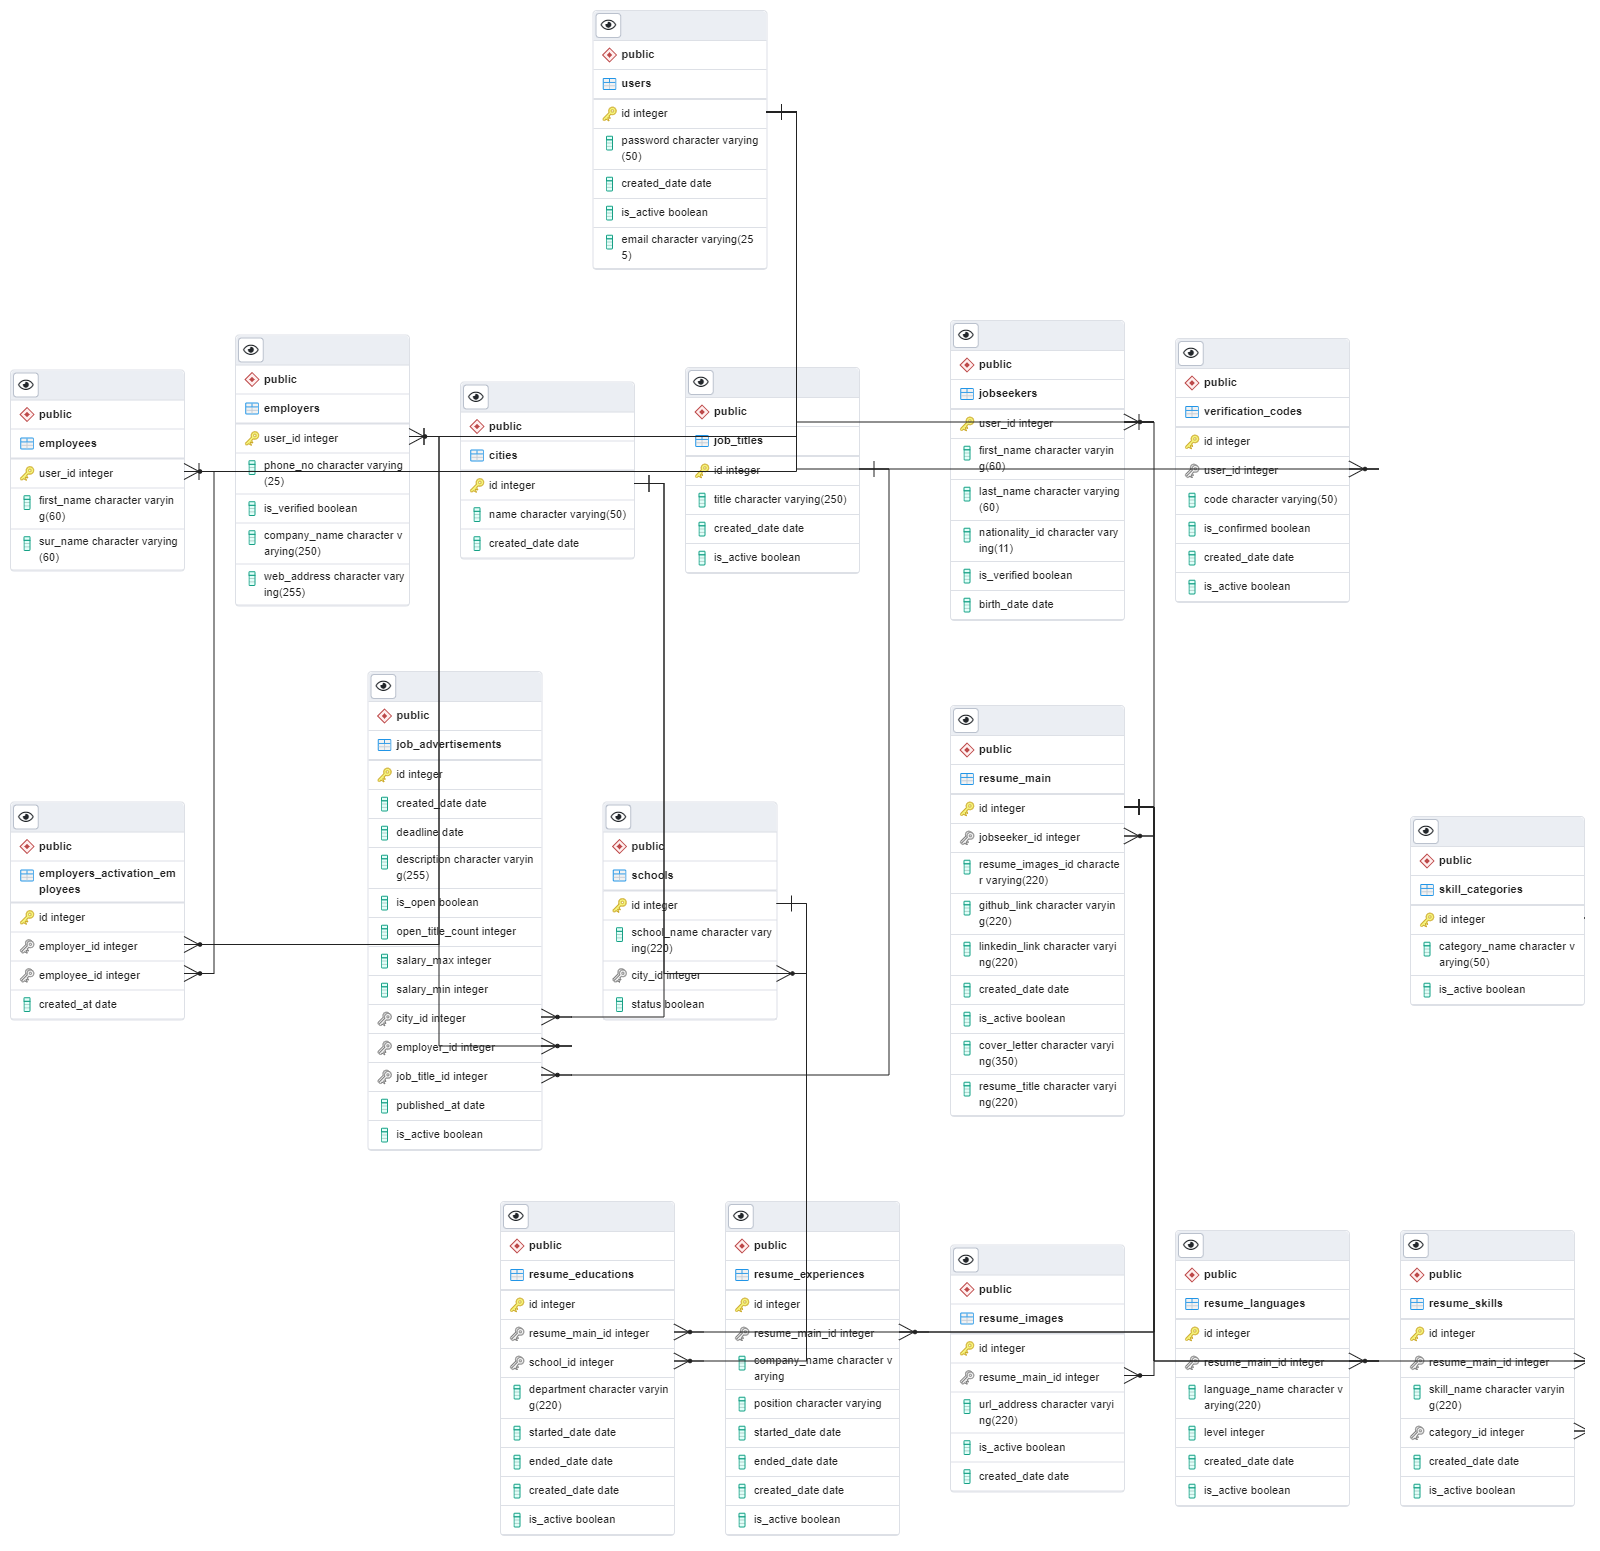
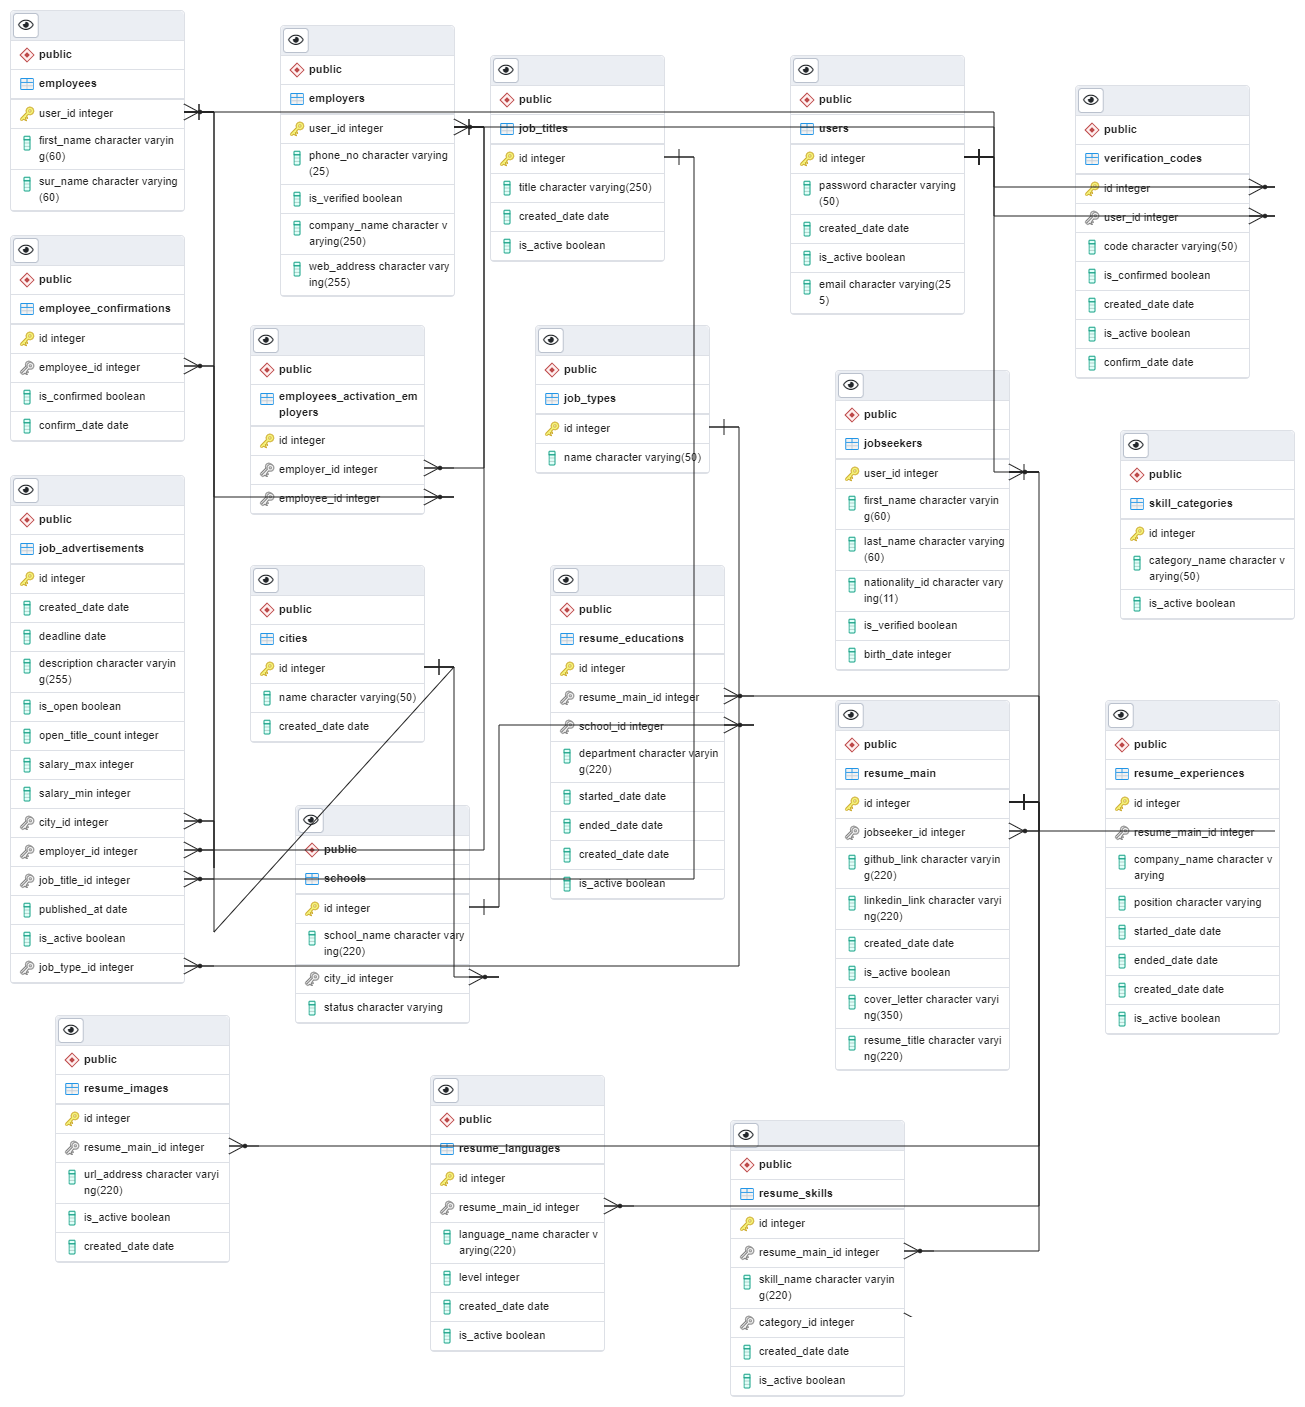
11/12

diff --git a/HrmsProject-main/HrmsProject-main/Hrms/Hrms/src/main/java/kodlamaio/Hrms/business/concretes/AuthManager.java b/HrmsProject-main/HrmsProject-main/Hrms/Hrms/src/main/java/kodlamaio/Hrms/business/concretes/AuthManager.java
@@ -6,19 +6,27 @@ import org.springframework.stereotype.Service;
 import kodlamaio.Hrms.business.abstracts.AuthService;
 import kodlamaio.Hrms.business.abstracts.EmployerService;
 import kodlamaio.Hrms.business.abstracts.JobSeekerService;
+
 import kodlamaio.Hrms.business.abstracts.UserService;
 import kodlamaio.Hrms.business.abstracts.VerificationCodeService;
 import kodlamaio.Hrms.core.utilities.adapters.ValidationService;
+
 import kodlamaio.Hrms.core.utilities.results.ErrorResult;
 import kodlamaio.Hrms.core.utilities.results.Result;
+
 import kodlamaio.Hrms.core.utilities.results.SuccessResult;
 import kodlamaio.Hrms.core.verification.VerificationService;
+import kodlamaio.Hrms.dataAccess.abstracts.EmployerDao;
+import kodlamaio.Hrms.dataAccess.abstracts.JobSeekerDao;
+import kodlamaio.Hrms.dataAccess.abstracts.UserDao;
 import kodlamaio.Hrms.entities.concretes.Employer;
 import kodlamaio.Hrms.entities.concretes.JobSeeker;
+
 import kodlamaio.Hrms.entities.concretes.VerificationCode;
 
+@SuppressWarnings("rawtypes")
 @Service
-public class AuthManager implements AuthService {
+public class AuthManager<T> implements AuthService {
 
 	private UserService userService;
 	private EmployerService employerService;
@@ -26,12 +34,18 @@ public class AuthManager implements AuthService {
 	private VerificationService verificationService;
 	private ValidationService validationService;
 	private VerificationCodeService verificationCodeService;
+    @SuppressWarnings("unused")
+	private UserDao userDao;
+    @SuppressWarnings("unused")
+	private EmployerDao employerDao;
+    @SuppressWarnings("unused")
+	private JobSeekerDao jobSeekerDao;
 
 	
 	@Autowired
 	public AuthManager(UserService userService, EmployerService employerService, JobSeekerService jobSeekerService,
-			VerificationService verificationService, ValidationService validationService,
-			VerificationCodeService verificationCodeService) {
+			VerificationService verificationService, ValidationService validationService,UserDao userDao,
+			VerificationCodeService verificationCodeService,JobSeekerDao jobSeekerDao,EmployerDao employerDao) {
 		super();
 		this.userService = userService;
 		this.employerService = employerService;
@@ -39,6 +53,9 @@ public class AuthManager implements AuthService {
 		this.verificationService = verificationService;
 		this.validationService = validationService;
 		this.verificationCodeService = verificationCodeService;
+		this.userDao = userDao;
+		this.employerDao = employerDao;
+		this.jobSeekerDao = jobSeekerDao;
 	}
 
 	@Override
@@ -185,7 +202,22 @@ public class AuthManager implements AuthService {
 		System.out.println("Doğrulama Kodu Gönderildi :  " + email );
 	
 	}
+
+	//@Override
+    //public DataResult<T> loginUser(String email, String password) {
+      //  var val = this.userDao.findByEmailAndPassword(email, password).getId();
+        //var employer = this.employerDao.findByUserId(val.getId());
+        //var jobSeeker = this.jobSeekerDao.findByUserId(val.getId());
+        //if (employer != null) {
+          //  return new SuccessDataResult<Employer>(employer, "Giriş Başarılı");
+       // } else if (jobSeeker != null) {
+         //   return new SuccessDataResult<JobSeeker>(jobSeeker, "Giriş Başarılı");
+       // }
+        //else {
+          //  return new ErrorDataResult<User>(null, "Hatalı Giriş!");
+        //}
 	}
+
 	
 	
 	

diff --git a/HrmsProject-main/HrmsProject-main/Hrms/Hrms/src/main/java/kodlamaio/Hrms/api/controllers/AuthController.java b/HrmsProject-main/HrmsProject-main/Hrms/Hrms/src/main/java/kodlamaio/Hrms/api/controllers/AuthController.java
@@ -4,21 +4,24 @@ import org.springframework.beans.factory.annotation.Autowired;
 import org.springframework.web.bind.annotation.PostMapping;
 import org.springframework.web.bind.annotation.RequestBody;
 import org.springframework.web.bind.annotation.RequestMapping;
+
 import org.springframework.web.bind.annotation.RestController;
 
 import kodlamaio.Hrms.business.abstracts.AuthService;
+
 import kodlamaio.Hrms.core.utilities.results.Result;
 import kodlamaio.Hrms.entities.concretes.Employer;
 import kodlamaio.Hrms.entities.concretes.JobSeeker;
 
 @RestController
 @RequestMapping("/api/auth")
-public class AuthController {
+public class AuthController<T> {
 
+	@SuppressWarnings("rawtypes")
 	private AuthService authService;
 
 	@Autowired
-	public AuthController(AuthService authService) {
+	public AuthController(@SuppressWarnings("rawtypes") AuthService authService) {
 		super();
 		this.authService = authService;
 	}
@@ -34,4 +37,10 @@ public class AuthController {
 	{
 		return authService.registerJobSeeker(jobSeeker, confirmPassword);
 	}
+	
+	 //@SuppressWarnings("unchecked")
+	//@PostMapping("/login")
+	  //  DataResult<T> login(@RequestParam String email, @RequestParam String password) {
+	    //    return authService.loginUser(email, password);
+	    //}
 }

diff --git a/HrmsProject-main/HrmsProject-main/Hrms/Hrms/src/main/java/kodlamaio/Hrms/business/concretes/JobTypeManager.java b/HrmsProject-main/HrmsProject-main/Hrms/Hrms/src/main/java/kodlamaio/Hrms/business/concretes/JobTypeManager.java
@@ -1,0 +1,34 @@
+package kodlamaio.Hrms.business.concretes;
+
+import java.util.List;
+
+import org.springframework.beans.factory.annotation.Autowired;
+import org.springframework.stereotype.Service;
+
+import kodlamaio.Hrms.business.abstracts.JobTypeService;
+import kodlamaio.Hrms.core.utilities.results.DataResult;
+import kodlamaio.Hrms.core.utilities.results.SuccessDataResult;
+import kodlamaio.Hrms.dataAccess.abstracts.JobTypeDao;
+import kodlamaio.Hrms.entities.concretes.JobType;
+
+@Service
+public class JobTypeManager implements JobTypeService {
+
+    private final JobTypeDao repository;
+
+    @Autowired
+    public JobTypeManager(JobTypeDao repository) {
+        this.repository = repository;
+    }
+
+    @Override
+    public DataResult<List<JobType>> getAll() {
+        var jobTypes = repository.findAll();
+        return new SuccessDataResult<>(jobTypes);
+    }
+
+    @Override
+    public boolean isExistById(int id) {
+        return repository.existsById(id);
+    }
+}

diff --git a/HrmsProject-main/HrmsProject-main/Hrms/Hrms/src/main/java/kodlamaio/Hrms/api/controllers/JobTypesController.java b/HrmsProject-main/HrmsProject-main/Hrms/Hrms/src/main/java/kodlamaio/Hrms/api/controllers/JobTypesController.java
@@ -1,0 +1,29 @@
+package kodlamaio.Hrms.api.controllers;
+
+import java.util.List;
+
+import org.springframework.beans.factory.annotation.Autowired;
+import org.springframework.web.bind.annotation.GetMapping;
+import org.springframework.web.bind.annotation.RequestMapping;
+import org.springframework.web.bind.annotation.RestController;
+
+import kodlamaio.Hrms.business.abstracts.JobTypeService;
+import kodlamaio.Hrms.core.utilities.results.DataResult;
+import kodlamaio.Hrms.entities.concretes.JobType;
+
+@RestController
+@RequestMapping("/api/job-types")
+public class JobTypesController {
+
+    private final JobTypeService jobTypeService;
+
+    @Autowired
+    public JobTypesController(JobTypeService jobTypeService) {
+        this.jobTypeService = jobTypeService;
+    }
+
+    @GetMapping
+    public DataResult<List<JobType>> getAll() {
+        return jobTypeService.getAll();
+    }
+}

diff --git a/HrmsProject-main/HrmsProject-main/Hrms/Hrms/src/main/java/kodlamaio/Hrms/entities/concretes/JobAdvertisement.java b/HrmsProject-main/HrmsProject-main/Hrms/Hrms/src/main/java/kodlamaio/Hrms/entities/concretes/JobAdvertisement.java
@@ -5,6 +5,7 @@ import java.time.LocalDate;
 
 import javax.persistence.Column;
 import javax.persistence.Entity;
+import javax.persistence.FetchType;
 import javax.persistence.GeneratedValue;
 import javax.persistence.GenerationType;
 import javax.persistence.Id;
@@ -72,6 +73,8 @@ public class JobAdvertisement {
 	@JoinColumn(name = "job_title_id")
 	private JobTitle jobTitle;
 	
-	
+	@ManyToOne(fetch = FetchType.LAZY)
+    @JoinColumn(name = "job_type_id", nullable = false)
+    private JobType jobType;
 
 }

diff --git a/HrmsProject-main/HrmsProject-main/Hrms/Hrms/src/main/java/kodlamaio/Hrms/business/abstracts/AuthService.java b/HrmsProject-main/HrmsProject-main/Hrms/Hrms/src/main/java/kodlamaio/Hrms/business/abstracts/AuthService.java
@@ -1,11 +1,14 @@
 package kodlamaio.Hrms.business.abstracts;
 
+
 import kodlamaio.Hrms.core.utilities.results.Result;
 import kodlamaio.Hrms.entities.concretes.Employer;
 import kodlamaio.Hrms.entities.concretes.JobSeeker;
 
-public interface AuthService {
+public interface AuthService<T> {
     Result registerEmployer(Employer employer, String confirmPassword);
 	
 	Result registerJobSeeker(JobSeeker jobSeeker, String confirmPassword);
+	
+	//DataResult<T> loginUser(String email, String password);
 }

diff --git a/HrmsProject-main/HrmsProject-main/Hrms/Hrms/src/main/java/kodlamaio/Hrms/entities/concretes/JobType.java b/HrmsProject-main/HrmsProject-main/Hrms/Hrms/src/main/java/kodlamaio/Hrms/entities/concretes/JobType.java
@@ -1,0 +1,22 @@
+package kodlamaio.Hrms.entities.concretes;
+
+import lombok.Getter;
+import lombok.Setter;
+
+import javax.persistence.*;
+
+@Getter
+@Setter
+@Entity
+@Table(name = "job_types")
+public class JobType {
+
+    @Id
+    @GeneratedValue(strategy = GenerationType.IDENTITY)
+    @Column(name = "id")
+    private Integer id;
+
+    @Column(name = "name", nullable = false, unique = true, length = 50)
+    private String name;
+
+}

diff --git a/HrmsProject-main/HrmsProject-main/Hrms/Hrms/src/main/java/kodlamaio/Hrms/dataAccess/abstracts/JobTypeDao.java b/HrmsProject-main/HrmsProject-main/Hrms/Hrms/src/main/java/kodlamaio/Hrms/dataAccess/abstracts/JobTypeDao.java
@@ -1,0 +1,12 @@
+package kodlamaio.Hrms.dataAccess.abstracts;
+
+
+import org.springframework.data.jpa.repository.JpaRepository;
+import org.springframework.stereotype.Repository;
+
+import kodlamaio.Hrms.entities.concretes.JobType;
+
+@Repository
+public interface JobTypeDao extends JpaRepository<JobType, Integer> {
+
+}

diff --git a/HrmsProject-main/HrmsProject-main/Hrms/Hrms/src/main/java/kodlamaio/Hrms/business/abstracts/JobTypeService.java b/HrmsProject-main/HrmsProject-main/Hrms/Hrms/src/main/java/kodlamaio/Hrms/business/abstracts/JobTypeService.java
@@ -1,0 +1,14 @@
+package kodlamaio.Hrms.business.abstracts;
+
+import java.util.List;
+
+import kodlamaio.Hrms.core.utilities.results.DataResult;
+import kodlamaio.Hrms.entities.concretes.JobType;
+
+public interface JobTypeService {
+
+    DataResult<List<JobType>> getAll();
+
+    boolean isExistById(int id);
+
+}

diff --git a/HrmsProject-main/HrmsProject-main/Hrms/Hrms/src/main/java/kodlamaio/Hrms/dataAccess/abstracts/JobSeekerDao.java b/HrmsProject-main/HrmsProject-main/Hrms/Hrms/src/main/java/kodlamaio/Hrms/dataAccess/abstracts/JobSeekerDao.java
@@ -5,7 +5,7 @@ import kodlamaio.Hrms.entities.concretes.JobSeeker;
 public interface JobSeekerDao extends JpaRepository<JobSeeker, Integer> {
 	JobSeeker getBynationalId(String  nationality_id);
 	JobSeeker getById(int id);
-
+	//JobSeeker findByUserId(int id);
 } 
 
 

diff --git a/HrmsProject-main/HrmsProject-main/Hrms/Hrms/src/main/java/kodlamaio/Hrms/dataAccess/abstracts/UserDao.java b/HrmsProject-main/HrmsProject-main/Hrms/Hrms/src/main/java/kodlamaio/Hrms/dataAccess/abstracts/UserDao.java
@@ -6,5 +6,6 @@ public interface UserDao extends JpaRepository<User, Integer> {
 	//User getByEmail(String email);
 	User getById(int id);
 	User findUserByEmail(String email);
+	 User findByEmailAndPassword(String email, String password);
 }
 

diff --git a/HrmsProject-main/HrmsProject-main/Hrms/Hrms/src/main/java/kodlamaio/Hrms/dataAccess/abstracts/EmployerDao.java b/HrmsProject-main/HrmsProject-main/Hrms/Hrms/src/main/java/kodlamaio/Hrms/dataAccess/abstracts/EmployerDao.java
@@ -9,5 +9,5 @@ Employer findByCompanyName(String companyName);
 Employer getById(int id);
 Employer getByCompanyName(String companyName);
 boolean existsByCompanyName(String companyName);
-
+//Employer findByUserId(int id);
 }
